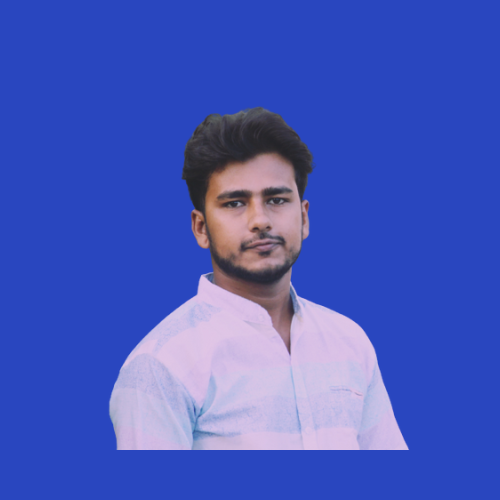
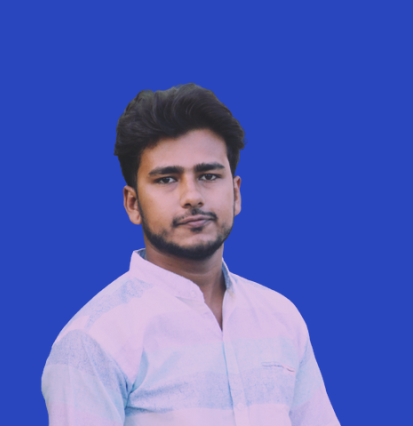
about section added

Changed region(s): [[0.0872, 0.1831, 0.8426, 1.0], [0.6683, 0.7629, 0.6973, 0.7934]]

diff --git a/src/nav/Nav.jsx b/src/nav/Nav.jsx
@@ -1,25 +1,43 @@
-import React from "react";
+import React, { useState } from "react";
 import "./nav.css";
 import { AiOutlineHome } from "react-icons/ai";
 import { AiOutlineUser } from "react-icons/ai";
 import { BiBookHeart } from "react-icons/bi";
 import { BiSolidMessageDetail } from "react-icons/bi";
 const Nav = () => {
+  const [active, setActive] = useState("#");
   return (
-    <div>
-      <a href="#">
+    /* eslint-disable jsx-a11y/anchor-is-valid */
+    <nav>
+      <a
+        href="#"
+        onClick={() => setActive("#")}
+        className={active === "#" ? "active" : " "}
+      >
         <AiOutlineHome />
       </a>
-      <a href="#about">
+      <a
+        href="#about"
+        onClick={() => setActive("#about")}
+        className={active === "#about" ? "active" : " "}
+      >
         <AiOutlineUser />
       </a>
-      <a href="#skills">
+      <a
+        href="#skills"
+        onClick={() => setActive("#skills")}
+        className={active === "#skills" ? "active" : " "}
+      >
         <BiBookHeart />
       </a>
-      <a href="#contact">
+      <a
+        href="#contact"
+        onClick={() => setActive("#contact")}
+        className={active === "#contact" ? "active" : " "}
+      >
         <BiSolidMessageDetail />
       </a>
-    </div>
+    </nav>
   );
 };
 

diff --git a/src/about/About.jsx b/src/about/About.jsx
@@ -1,7 +1,34 @@
 import React from "react";
+import "./about.css";
+import profile from "../assets/profile-2.png";
 
 const About = () => {
-  return <section id="about">About</section>;
+  return (
+    <section id="about">
+      <h5>Get To Know</h5>
+      <h2>About Me</h2>
+      <div className="container about_container">
+        <div className="about_me">
+          <div className="about_image">
+            <img src={profile} alt="" />
+          </div>
+        </div>
+        <div className="about_content">
+          <article>
+            Lorem ipsum, dolor sit amet consectetur adipisicing elit. Assumenda,
+            at in eum corrupti nisi eaque neque labore asperiores voluptates
+            minima. Maiores eligendi quidem praesentium sed quia iusto aut
+            repellendus ut eius eaque optio ducimus, accusantium odio alias esse
+            adipisci, dolorum atque quo numquam! Molestias fuga esse numquam cum
+            dolores. Atque!
+          </article>
+          <a href="#contact" className="btn btn-primary">
+            Let's Talk
+          </a>
+        </div>
+      </div>
+    </section>
+  );
 };
 
 export default About;

diff --git a/src/nav/nav.css b/src/nav/nav.css
@@ -1,0 +1,36 @@
+nav {
+  background: rgba(0, 0, 0, 0.3);
+  width: max-content;
+  display: block;
+  padding: 0.2rem 1rem;
+  z-index: 2;
+  position: fixed;
+  left: 50%;
+  transform: translateX(-50%);
+  bottom: 2rem;
+  display: flex;
+  gap: 0.8rem;
+  border-radius: 3rem;
+  backdrop-filter: blur(15px);
+}
+
+nav a {
+  background: transparent;
+  padding: 0.8rem;
+  border-radius: 50%;
+  display: flex;
+  color: var(--color-light);
+  font-size: 1.1rem;
+  -webkit-border-radius: 50%;
+  -moz-border-radius: 50%;
+  -ms-border-radius: 50%;
+  -o-border-radius: 50%;
+}
+nav a:hover {
+  background: rgba(0, 0, 0, 0.3);
+}
+
+nav a.active {
+  background: var(--color-bg);
+  color: var(--color-white);
+}

diff --git a/src/header/header.css b/src/header/header.css
@@ -44,7 +44,7 @@ header {
   right: -2.5rem;
   bottom: 7rem;
   font-weight: 400;
-  font-size: 1.2rem;
+  font-size: 1.1rem;
   transform: rotate(90deg);
   -webkit-transform: rotate(90deg);
   -moz-transform: rotate(90deg);
